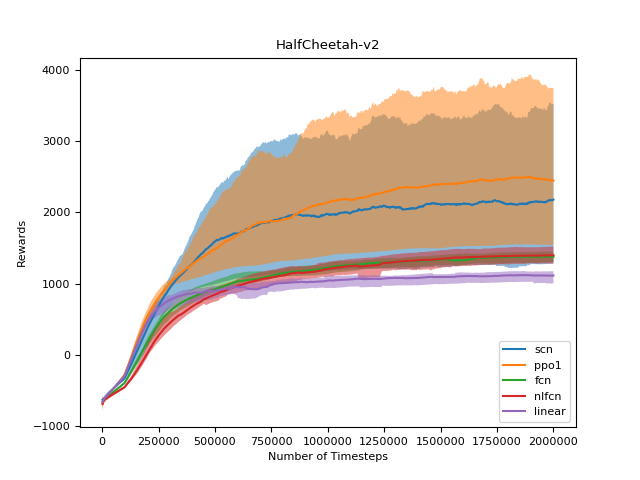
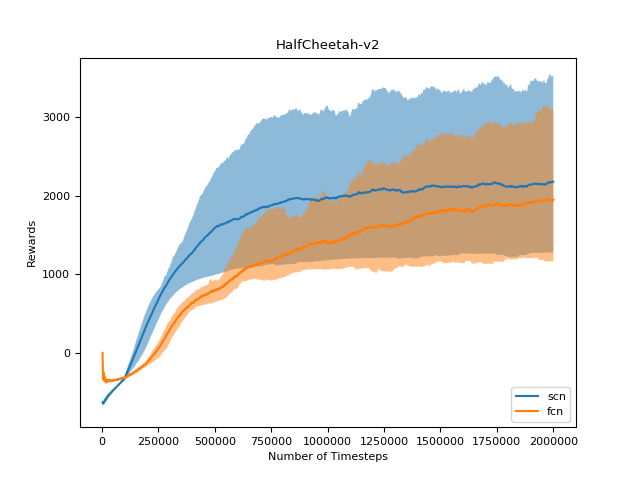
Graph for HalfCheetah

diff --git a/plot1.py b/plot1.py
@@ -53,7 +53,7 @@ def plot2(seeds, reward_scale, alg, env_id, e):
     return tss, max, min, mean
 
 
-env_id = "Walker2d-v2"
+env_id = "HalfCheetah-v2"
 seeds = [1,2,3,4,5]
 reward_scale=0.1
 algs = ['scn']
@@ -67,7 +67,7 @@ seeds = [1,2,3,4,5]
 reward_scale=0.1
 algs = ['fcn']
 for alg in algs:
-    ts, ma, mi, avg = plot2(seeds, reward_scale, alg, env_id, "_snew")
+    ts, ma, mi, avg = plot2(seeds, reward_scale, alg, env_id, "_sserg")
     plt.fill_between(ts, ma,mi, alpha=0.5)
     plt.plot(ts, avg, label="{}".format(alg))
 
